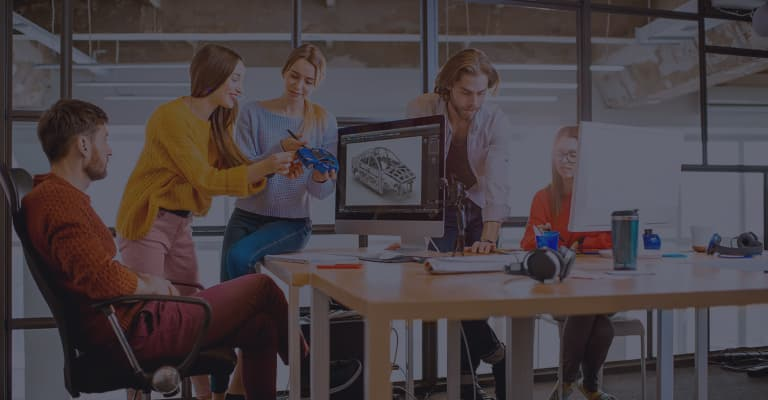
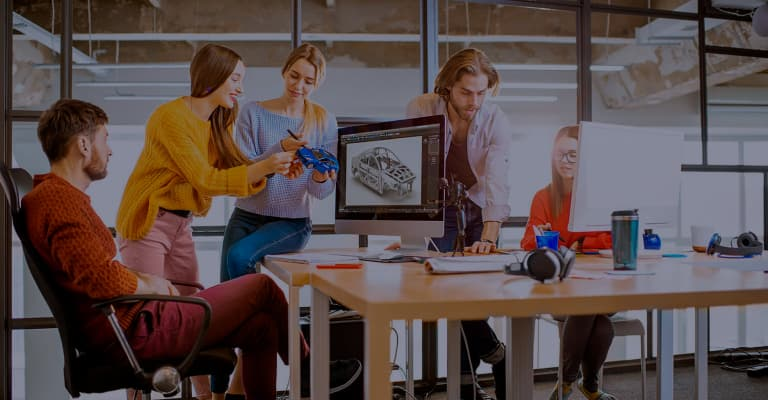
виправив картинки в хедері для РС

diff --git a/css/main.min.css b/css/main.min.css
@@ -1,2 +1,2 @@
-:root{--primary-text-color: #757575;--title-text-color: #212121;--accent-color: #2196f3;--primary-white-color: #ffffff;--button-color: #188ce8;--button-color-portfolio: #f5f4fa;--border-cards: #eeeeee;--border-cards-clients: #afb1b8;--timing-function: cubic-bezier(0.4, 0, 0.2, 1)}.form-checkbox-input{margin-right:7px;position:absolute;width:1px;height:1px;overflow:hidden;clip:rect(0 0 0 0)}body{font-family:'roboto', sans-serif;color:var(--primary-text-color);background-color:var(--primary-white-color);letter-spacing:0.03em;position:relative}h1,h2,h3,h4,h5,h6,p{margin-top:0;margin-bottom:0}ul{padding-left:0}img{display:block;max-width:100%;height:auto}.list{margin-top:0;margin-bottom:0;list-style:none}.link{text-decoration:none}.section{padding-top:94px;padding-bottom:94px}.section_mob{padding-top:60px;padding-bottom:60px}.container{width:100%;padding-left:15px;padding-right:15px;outline:1px solid red}@media screen and (min-width: 480px){.container{width:480px;margin:0 auto}}@media screen and (min-width: 768px){.container{width:768px}}@media screen and (min-width: 1200px){.container{width:1200px}}.logo{margin-left:0;display:inline-block;color:#000000;font-family:'Raleway', sans-serif;font-weight:bold;font-size:24px;line-height:1.17;text-decoration:none}.header__logo{margin-top:16px;margin-bottom:16px}.footer__logo{margin-top:0;margin-bottom:20px}.logo__span{color:var(--accent-color)}.logo__span_white{color:var(--primary-white-color)}@media screen and (max-width: 767px){.mobile-menu{z-index:9;position:fixed;top:0;left:0;width:100vw;height:100vh;overflow:auto;background-color:var(--primary-white-color);opacity:0;visibility:hidden;pointer-events:none}.mobile-menu__item{margin-left:28px}.mobile-menu__item:not(:last-child){display:block;margin-bottom:32px}.mobile-menu__item:last-child{margin-bottom:302px}.mobile-menu__link{font-weight:500;font-size:40px;line-height:1.18;text-align:center;letter-spacing:0.02em;color:var(--title-text-color)}.mobile-menu.is-open{visibility:visible;pointer-events:auto}.mobile-social-list{display:inline-flex;margin-left:28px}.mobile-social-list__link{font-weight:500;font-size:18px;line-height:1.22;letter-spacing:0.02em;color:var(--accent-color)}.mobile-social-list__item:not(:last-child){padding-right:10px;margin-right:10px;border-right:1px solid rgba(33,33,33,0.2)}.mobile-menu__link.current{color:var(--accent-color)}.mobile-contacts{margin-left:28px}.mobile-contacts__cont{display:inline-block;font-weight:500;font-size:24px;line-height:1.17;letter-spacing:0.02em;color:var(--primary-text-color);margin-bottom:64px}.mobile-contacts__cont.mob{display:inline-block;font-weight:500;font-size:34px;line-height:1.18;letter-spacing:0.02em;color:var(--accent-color);margin-bottom:32px}}@media screen and (min-width: 768px){.mobile-menu{display:none}}.button{cursor:pointer;border-style:none}.section__title{margin-bottom:50px;color:var(--title-text-color);font-weight:bold;font-size:36px;line-height:1.17;text-align:center}.section__title_mob{font-weight:bold;font-size:28px;line-height:1.18;text-align:center;margin-bottom:30px}.contacts-head__cont{display:flex;align-items:center;color:var(--primary-text-color);font-weight:500;font-size:12px;line-height:1.16;letter-spacing:0.02em;text-decoration:none;transition:color 250ms var(--timing-function)}.contacts-head__cont:hover,.contacts-head__cont:focus{color:var(--accent-color)}.address{font-style:normal}.contacts-nav__cont{color:var(--primary-text-color);font-weight:500;font-size:14px;line-height:1.14;letter-spacing:0.02em;text-decoration:none;transition:color 250ms var(--timing-function)}.contacts-nav__cont:hover,.contacts-nav__cont:focus{color:var(--accent-color)}.team .social-list{display:flex;justify-content:space-around;padding:16px 122px 24px 122px}.team .social-list__link{display:flex;align-items:center;justify-content:center;width:44px;height:44px;border-radius:50%}.team .social-list__link{fill:var(--border-cards-clients);transition:background-color 250ms var(--timing-function)}.team .social-list__link:hover,.team .social-list__link:focus{background-color:var(--accent-color)}.team .social-list__link:hover .social-list__icon{transition:fill 250ms var(--timing-function)}.team .social-list__link:hover .social-list__icon,.team .social-list__link:focus .social-list__icon{fill:var(--primary-white-color)}.footer-list{display:flex}.footer-list__link{display:flex;align-items:center;justify-content:center;width:44px;height:44px;border-radius:50%;background-color:rgba(255,255,255,0.1);transition:background-color 250ms var(--timing-function)}.footer-list__link:hover,.footer-list__link:focus{background-color:var(--accent-color)}.footer-list__item:not(:first-child){margin-left:10px}.footer-list__icon{fill:var(--primary-white-color)}.team .description{padding-top:30px;background-color:var(--primary-white-color)}.projects__description{padding:20px 24px 20px 24px;border:1px solid var(--border-cards);border-top:0}.projects__description_big{padding:20px 24px 56px 24px}.modal-backdrop{position:fixed;top:0;left:0;width:100%;height:100%;background-color:rgba(0,0,0,0.2);z-index:100;opacity:1;transition:opacity 250ms var(--timing-function),visibility 250ms var(--timing-function)}.modal-backdrop.is-hidden{opacity:0;visibility:hidden;pointer-events:none}.modal-backdrop.is-hidden .modal{transform:translate(-50%, -50%) scale(0.7)}.modal{display:flex;position:absolute;top:50%;left:50%;width:450px;height:609px;background-color:var(--primary-white-color);border-radius:4px;box-shadow:0px 1px 3px rgba(0,0,0,0.12),0px 1px 1px rgba(0,0,0,0.14),0px 2px 1px rgba(0,0,0,0.2);transform:translate(-50%, -50%) scale(1);transition:transform 250ms var(--timing-function)}@media screen and (min-width: 1200px){.modal{width:528px;height:581px}}.modal-button{position:absolute;top:8px;right:8px;width:30px;height:30px;display:flex;align-items:center;justify-content:center;padding:0;border:1px solid rgba(0,0,0,0.1);background-color:var(--primary-white-color);border-radius:50%;transition:fill 250ms var(--timing-function)}.modal-button:hover,.modal-button:focus{fill:var(--accent-color)}.contact-form{width:370px;height:auto;margin:0 auto}.contact-form>.form-text:first-child{margin-top:40px;margin-bottom:12px;font-weight:bold;font-size:20px;line-height:1.15;text-align:center;color:var(--title-text-color)}.contact-form .label{display:block;margin-bottom:4px;font-size:12px;line-height:1.16;letter-spacing:0.01em;color:var(--primary-text-color)}@media screen and (min-width: 1200px){.contact-form{width:448px}}.contact-form-label{position:relative;display:block;margin-bottom:10px}.contact-form-input{outline:none;width:370px;height:40px;padding:0 0 0 40px;border:1px solid rgba(33,33,33,0.2);box-sizing:border-box;border-radius:4px;transition:border 250ms var(--timing-function)}.contact-form-input:hover,.contact-form-input:focus{border:1px solid var(--accent-color)}.contact-form-input::placeholder{color:rgba(0,0,0,0.2)}.contact-form-input:required:focus:not(:placeholder-shown):valid{border-color:#008000}.contact-form-input:focus:required:not(:placeholder-shown):invalid{border-color:#ff0000}@media screen and (min-width: 1200px){.contact-form{width:448px}.contact-form-input{width:448px;height:40px}}.contact-form-message{outline:none;width:100%;height:120px;padding:12px 16px;margin-bottom:20px;border:1px solid rgba(33,33,33,0.2);box-sizing:border-box;border-radius:4px;resize:none;transition:border 250ms var(--timing-function)}.contact-form-message:hover,.contact-form-message:focus{border:1px solid var(--accent-color)}.contact-form-message::placeholder{font-size:14px;line-height:1.14;letter-spacing:0.01em;color:rgba(117,117,117,0.5)}.form-checkbox{display:flex;justify-content:center;align-items:center}.checkbox-icon{position:relative;width:16px;height:15px;border:2px solid var(--title-text-color);border-radius:2px;margin-right:7px;transition:background-color 250ms var(--timing-function),border-color 250ms var(--timing-function)}.checkbox-icon-check{position:absolute;top:-2px;left:-2px}.form-checkbox-input:checked+.checkbox-icon{background-color:var(--accent-color);border-color:var(--accent-color)}.checkbox-label{font-size:12px;line-height:1.67;color:var(--primary-text-color)}.checkbox-link{outline:none;font-size:12px;line-height:1.67;text-decoration-line:underline;color:var(--accent-color)}.checkbox-link:focus{outline:1px solid var(--accent-color)}@media screen and (min-width: 1200px){.checkbox-label{font-size:14px;line-height:1.71}.checkbox-link{font-size:14px;line-height:1.71}}.contacts-form-btn{outline:none;position:absolute;left:125px;bottom:40px;display:flex;align-items:center;justify-content:center;padding:0;width:200px;height:50px;border-radius:4px;border:none;cursor:pointer;background-color:var(--accent-color);color:var(--primary-white-color);font-weight:bold;font-size:16px;line-height:1.87;letter-spacing:0.06em;transition:background-color 250ms var(--timing-function)}.contacts-form-btnn:hover,.contacts-form-btn:focus{background-color:var(--button-color)}@media screen and (min-width: 1200px){.contacts-form-btn{left:165px}}.form-icon{position:absolute;bottom:11px;left:12px;transition:fill 250ms var(--timing-function)}.contact-form-input:hover ~ .form-icon,.contact-form-input:focus ~ .form-icon{fill:var(--accent-color)}.header{border-bottom:1px solid var(--border-cards)}.header__mobile-menu-btn{background-color:transparent;border:none;padding:0}.header__mobile-menu-icon{width:40px;height:40px;fill:var(--title-text-color);transition:fill 250ms var(--timing-function)}.header__mobile-menu-icon:hover,.header__mobile-menu-icon:focus{fill:var(--button-color)}.header .container{display:flex;justify-content:space-between;align-items:center}.mobile-menu .container{display:flex;flex-direction:column;align-items:flex-start;position:relative;padding-top:48px;padding-bottom:48px}.mobile-menu__close-btn{position:absolute;top:10px;right:15px;background:transparent;border:none;padding:0;transition:fill 250ms var(--timing-function)}.mobile-menu__close-btn:hover,.mobile-menu__close-btn:focus{fill:var(--button-color)}.mobile-menu__close-icon{width:40px;height:40px}.site-nav.list,.contacts-head{display:none}@media screen and (min-width: 768px){.header__mobile-menu-btn{display:none}.site-nav.list,.contacts-head{display:block}.main-nav{display:flex;align-items:center}.header__logo{margin-top:26px;margin-bottom:26px}.site-nav{display:flex}.site-nav__item:first-child{margin-left:88px}.site-nav__item:not(:first-child){margin-left:50px}.site-nav__link{display:block;padding-top:32px;padding-bottom:32px;color:#212121;font-weight:500;font-size:14px;line-height:1.14;letter-spacing:0.02em;text-decoration:none;transition:color 250ms var(--timing-function)}.site-nav__link:hover,.site-nav__link:focus{color:var(--accent-color)}.site-nav__link.current{position:relative;color:var(--accent-color)}.site-nav__link.current::after{position:absolute;left:0;bottom:0;display:block;content:'';width:100%;height:4px;border-radius:2px;background-color:var(--accent-color)}.site-nav .header__logo{margin-top:24px;margin-bottom:25px}.site-nav.list{display:flex}.contacts-head{margin-left:84px}.contacts-head__cont{display:inline-flex}.contacts-head__icon{width:14px;height:10px;margin-right:8px;fill:currentColor}.contacts-head__icon_tel{width:10px;height:14px}}@media screen and (min-width: 1200px){.logo{font-size:26px;line-height:1.19}.site-nav__item:first-child{margin-left:93px}.contacts-head__icon{width:16px;height:12px;margin-right:10px;fill:currentColor}.contacts-head__icon_tel{width:10px;height:16px}.contacts-head__cont{font-size:14px;line-height:1.14}.contacts-head__item:not(:first-child){margin-left:30px}.contacts-head{display:flex;justify-content:center;margin-left:auto}}.hero.section{padding-top:118px;padding-bottom:118px}.hero{text-align:center;max-width:1600px;height:400px;margin-left:auto;margin-right:auto;background-color:#c4c4c4;background:no-repeat;background-position:center;background-size:cover;background-image:linear-gradient(to right, rgba(47,48,58,0.4), rgba(47,48,58,0.4)),url(../../images/mobile/hero/header_img.jpg)}.hero__text{margin-bottom:30px;font-weight:900;font-size:26px;line-height:1.62;color:var(--primary-white-color);text-align:center;letter-spacing:0.06em;text-transform:uppercase}.hero__button{color:var(--primary-white-color);background-color:var(--accent-color);font-family:inherit;font-weight:bold;font-size:16px;line-height:1.87;letter-spacing:0.06em;padding:10px 32px;border-radius:4px;transition:background-color 250ms var(--timing-function)}.hero__button:hover,.hero__button:focus{background-color:var(--button-color)}@media (min-device-pixel-ratio: 2) and (max-width: 767px), (min-resolution: 192dpi) and (max-width: 767px), (min-resolution: 2dppx) and (max-width: 767px){.hero{background-image:linear-gradient(to right, rgba(47,48,58,0.4), rgba(47,48,58,0.4)),url(../../images/mobile/hero/header_img@2x.jpg)}}@media screen and (min-width: 768px){.hero{background-image:linear-gradient(to right, rgba(47,48,58,0.4), rgba(47,48,58,0.4)),url(../../images/tablet/hero/Header_img.jpg)}}@media (min-device-pixel-ratio: 2) and (min-width: 768px), (min-resolution: 192dpi) and (min-width: 768px), (min-resolution: 2dppx) and (min-width: 768px){.hero{background-image:linear-gradient(to right, rgba(47,48,58,0.4), rgba(47,48,58,0.4)),url(../../images/tablet/hero/Header_img@2x.jpg)}}@media screen and (min-width: 1200px){.hero{background-image:linear-gradient(to right, rgba(47,48,58,0.4), rgba(47,48,58,0.4)),url(../../images/pc/hero/Header_img.jpg)}}@media (min-device-pixel-ratio: 2) and (min-width: 1200px), (min-resolution: 192dpi) and (min-width: 1200px), (min-resolution: 2dppx) and (min-width: 1200px){.hero{background-image:linear-gradient(to right, rgba(47,48,58,0.4), rgba(47,48,58,0.4)),url(../../images/pc/hero/Header_img@2x.jpg)}}@media screen and (min-width: 1200px){.hero.section{padding-top:200px;padding-bottom:200px}.hero{height:600px}.hero__text{font-size:44px;line-height:1.36}}.advantages__text{margin-bottom:30px;font-size:14px;line-height:1.71;letter-spacing:0.03em;color:var(--primary-text-color)}.advantages__thumb{display:flex;align-items:center;justify-content:center;width:100%;height:120px;background-color:var(--button-color-portfolio);margin-bottom:30px}.advantages__title{margin-bottom:10px;font-weight:bold;font-size:14px;line-height:1.14;text-align:center;letter-spacing:0.03em;text-transform:uppercase;color:var(--title-text-color)}@media screen and (min-width: 768px){.advantages{display:flex;flex-wrap:wrap}.advantages__item{width:354px}.advantages__thumb{display:flex;width:354px;height:120px;background-color:var(--button-color-portfolio);margin-bottom:30px}.advantages__title{text-align:left}.advantages__item:nth-child(2n+1){margin-right:30px}}@media screen and (min-width: 1200px){.advantages__thumb{width:270px}.advantages__item:not(:last-child){margin-right:30px}.advantages__item{width:270px}}@media screen and (max-width: 1199px){.our-works{display:none}}.our-works{padding-top:0}.works{display:flex}.works__item{position:relative}.works__title{font-weight:bold;font-size:14px;line-height:1.14;text-align:center;text-transform:uppercase;color:var(--primary-white-color)}.works__backdrop{position:absolute;bottom:0;left:0;display:flex;align-items:center;justify-content:center;background-color:rgba(47,48,58,0.8);width:100%;height:70px}.works__item:not(:first-child){margin-left:30px}.team{background-color:var(--button-color-portfolio)}.team__description{padding-top:30px;background-color:var(--primary-white-color)}.team__title,.team__text{color:var(--title-text-color);font-weight:500;font-size:16px;line-height:1.19;text-align:center}.team__text{color:var(--primary-text-color);font-weight:normal}.team__title{margin-bottom:10px}.team__item{margin-bottom:30px;box-shadow:0px 1px 3px rgba(0,0,0,0.12),0px 1px 1px rgba(0,0,0,0.14),0px 2px 1px rgba(0,0,0,0.2);border-radius:0px 0px 4px 4px}@media screen and (min-width: 768px){.team{display:flex;flex-wrap:wrap}.team__item{width:354px}.team__item:nth-child(2n+1){margin-right:30px}.team .social-list{display:flex;justify-content:space-around;padding:16px 74px 24px 74px}}@media screen and (min-width: 1200px){.section{padding-top:94px}.team__item{width:270px}.team__item:not(:last-child){margin-right:30px}.team .section__title{font-size:36px;line-height:1.17}.team .social-list{padding:16px 32px 30px 32px}}.section.clients{padding-top:71px;padding-bottom:49px}.company{display:flex;flex-wrap:wrap}.company__link{display:flex;align-items:center;justify-content:center;width:210px;height:92px;border:1px solid var(--border-cards-clients);border-radius:4px;transition:border 250ms var(--timing-function)}.company__link:hover,.company__link:focus{border:1px solid var(--accent-color)}.company__link:hover .company__icon,.company__link:focus .company__icon{fill:var(--accent-color)}.company__icon{margin:16px 52px;fill:var(--border-cards-clients);transition:fill 250ms var(--timing-function)}.company__item{margin-bottom:30px}.company__item:nth-child(2n+1){margin-right:30px}@media screen and (min-width: 768px){.section{padding-top:60px;padding-bottom:60px}.company__link{width:226px}.company__icon{margin:16px 60px}.company__item:nth-child(2){margin-right:30px}.company__item{margin-right:30px}.company__item:nth-child(3),.company__item:nth-child(6){margin-right:0}}@media screen and (min-width: 1200px){.section{padding-top:94px;padding-bottom:94px}.section__title_mob{font-size:36px;line-height:1.17;margin-bottom:50px}.company__link{width:170px}.company__icon{margin:16px 32px}.company__item:not(:last-child){margin-right:30px}}.footer{padding-bottom:60px;padding-top:60px;background:#2f303a}.footer .container{display:flex;align-items:baseline;justify-content:space-around}.contacts-nav__cont{color:rgba(255,255,255,0.6);font-weight:normal;line-height:1.71;letter-spacing:0.03em}.thumb{margin-left:70px}.footer-title{margin-bottom:35px;font-weight:bold;font-size:14px;line-height:1.14;text-transform:uppercase;color:#ffffff}.contacts-nav__map{margin-bottom:9px}.contacts-nav__map-google{color:var(--primary-white-color);text-decoration:none;font-style:normal;font-size:14px;line-height:1.71}.contacts-nav__cont.mail{display:inline-block;margin-bottom:9px}.subscription{margin-left:93px}.subscription__thumb{display:flex}.subscription__title{margin-bottom:35px}.subscription__input{width:358px;height:50px;background-color:transparent;border:1px solid rgba(255,255,255,0.3);drop-shadow:0px 4px 4px rgba(0,0,0,0.15);border-radius:4px;padding-left:16px;color:var(--primary-white-color)}.subscription__input::placeholder{color:rgba(255,255,255,0.6)}.subscription__button{position:relative;width:200px;height:50px;border-radius:4px;font-family:inherit;font-weight:bold;font-size:16px;line-height:1.87;letter-spacing:0.06em;padding:10px 62px 10px 29px;margin-left:12px;color:var(--primary-white-color);background-color:var(--accent-color);border:none;box-shadow:0px 4px 4px rgba(0,0,0,0.15);transition:background-color 250ms var(--timing-function)}.subscription__button:hover,.subscription__button:focus{background-color:var(--button-color)}.subscription__icon{position:absolute;top:13px;right:28px}.filter{padding-top:60px}.filter-nav{display:flex;flex-wrap:wrap;justify-content:flex-start}.filter-nav__button{padding:6px 22px;border-radius:4px;font-family:inherit;color:var(--title-text-color);background-color:var(--button-color-portfolio);font-weight:500;font-size:16px;line-height:1.6;letter-spacing:inherit;transition:color 250ms var(--timing-function),background-color 250ms var(--timing-function),box-shadow 250ms var(--timing-function)}.filter-nav__button:hover,.filter-nav__button:focus{color:var(--primary-white-color);background-color:var(--accent-color);box-shadow:0px 4px 4px rgba(0,0,0,0.25)}.filter-nav__item:not(:first-child){margin-left:8px;margin-bottom:15px}.filter-nav__item:nth-child(4){margin-left:0;margin-bottom:40px}.filter-nav__item:nth-child(5){margin-bottom:40px}.projects__item{width:450px;transition:box-shadow 250ms var(--timing-function)}.projects__item:hover,.projects__item:focus{box-shadow:0px 4px 4px rgba(0,0,0,0.25)}.projects__item:not(:last-child){margin-bottom:30px}.projects__link{text-decoration:none}.projects__title{color:var(--title-text-color);font-weight:bold;font-size:18px;line-height:2;letter-spacing:0.06em;margin-bottom:4px}.projects__text{color:var(--primary-text-color);font-size:16px;line-height:1.9}.projects__thumb{position:relative;overflow:hidden}.backdrop{position:absolute;top:0;left:0;overflow:auto;width:100%;height:101%;opacity:1;background-color:rgba(33,150,243,0.9);transition:transform 250ms var(--timing-function);transform:translateY(100%)}.projects__link:hover .backdrop,.projects__link:focus .backdrop{transform:translateY(0)}.backdrop__text{padding:63px 24px;font-size:18px;line-height:1.55;color:var(--primary-white-color)}@media screen and (min-width: 768px){.filter-nav{padding-left:0;display:flex;justify-content:center;margin-bottom:30px}.projects{display:flex;flex-wrap:wrap}.projects__item{width:354px}.projects__item:nth-child(2n+1){margin-right:30px}}@media screen and (min-width: 1200px){.projects__description_big{padding:20px 24px 20px 24px}.filter{padding-top:94px}.filter-nav{margin-bottom:50px}.projects{display:flex;flex-wrap:wrap}.projects__item{margin-right:30px;width:370px}.projects__item:nth-child(3n){margin-right:0}.projects__item:nth-last-child(-n+3){margin-bottom:0}}
+:root{--primary-text-color: #757575;--title-text-color: #212121;--accent-color: #2196f3;--primary-white-color: #ffffff;--button-color: #188ce8;--button-color-portfolio: #f5f4fa;--border-cards: #eeeeee;--border-cards-clients: #afb1b8;--timing-function: cubic-bezier(0.4, 0, 0.2, 1)}.form-checkbox-input{margin-right:7px;position:absolute;width:1px;height:1px;overflow:hidden;clip:rect(0 0 0 0)}body{font-family:'roboto', sans-serif;color:var(--primary-text-color);background-color:var(--primary-white-color);letter-spacing:0.03em;position:relative}h1,h2,h3,h4,h5,h6,p{margin-top:0;margin-bottom:0}ul{padding-left:0}img{display:block;max-width:100%;height:auto}.list{margin-top:0;margin-bottom:0;list-style:none}.link{text-decoration:none}.section{padding-top:94px;padding-bottom:94px}.section_mob{padding-top:60px;padding-bottom:60px}.container{width:100%;padding-left:15px;padding-right:15px;outline:1px solid red}@media screen and (min-width: 480px){.container{width:480px;margin:0 auto}}@media screen and (min-width: 768px){.container{width:768px}}@media screen and (min-width: 1200px){.container{width:1200px}}.logo{margin-left:0;display:inline-block;color:#000000;font-family:'Raleway', sans-serif;font-weight:bold;font-size:24px;line-height:1.17;text-decoration:none}.header__logo{margin-top:16px;margin-bottom:16px}.footer__logo{margin-top:0;margin-bottom:20px}.logo__span{color:var(--accent-color)}.logo__span_white{color:var(--primary-white-color)}@media screen and (max-width: 767px){.mobile-menu{z-index:9;position:fixed;top:0;left:0;width:100vw;height:100vh;overflow:auto;background-color:var(--primary-white-color);opacity:0;visibility:hidden;pointer-events:none}.mobile-menu__item{margin-left:28px}.mobile-menu__item:not(:last-child){display:block;margin-bottom:32px}.mobile-menu__item:last-child{margin-bottom:302px}.mobile-menu__link{font-weight:500;font-size:40px;line-height:1.18;text-align:center;letter-spacing:0.02em;color:var(--title-text-color)}.mobile-menu.is-open{visibility:visible;pointer-events:auto}.mobile-social-list{display:inline-flex;margin-left:28px}.mobile-social-list__link{font-weight:500;font-size:18px;line-height:1.22;letter-spacing:0.02em;color:var(--accent-color)}.mobile-social-list__item:not(:last-child){padding-right:10px;margin-right:10px;border-right:1px solid rgba(33,33,33,0.2)}.mobile-menu__link.current{color:var(--accent-color)}.mobile-contacts{margin-left:28px}.mobile-contacts__cont{display:inline-block;font-weight:500;font-size:24px;line-height:1.17;letter-spacing:0.02em;color:var(--primary-text-color);margin-bottom:64px}.mobile-contacts__cont.mob{display:inline-block;font-weight:500;font-size:34px;line-height:1.18;letter-spacing:0.02em;color:var(--accent-color);margin-bottom:32px}}@media screen and (min-width: 768px){.mobile-menu{display:none}}.button{cursor:pointer;border-style:none}.section__title{margin-bottom:50px;color:var(--title-text-color);font-weight:bold;font-size:36px;line-height:1.17;text-align:center}.section__title_mob{font-weight:bold;font-size:28px;line-height:1.18;text-align:center;margin-bottom:30px}.contacts-head__cont{display:flex;align-items:center;color:var(--primary-text-color);font-weight:500;font-size:12px;line-height:1.16;letter-spacing:0.02em;text-decoration:none;transition:color 250ms var(--timing-function)}.contacts-head__cont:hover,.contacts-head__cont:focus{color:var(--accent-color)}.address{font-style:normal}.contacts-nav__cont{color:var(--primary-text-color);font-weight:500;font-size:14px;line-height:1.14;letter-spacing:0.02em;text-decoration:none;transition:color 250ms var(--timing-function)}.contacts-nav__cont:hover,.contacts-nav__cont:focus{color:var(--accent-color)}.team .social-list{display:flex;justify-content:space-around;padding:16px 122px 24px 122px}.team .social-list__link{display:flex;align-items:center;justify-content:center;width:44px;height:44px;border-radius:50%}.team .social-list__link{fill:var(--border-cards-clients);transition:background-color 250ms var(--timing-function)}.team .social-list__link:hover,.team .social-list__link:focus{background-color:var(--accent-color)}.team .social-list__link:hover .social-list__icon{transition:fill 250ms var(--timing-function)}.team .social-list__link:hover .social-list__icon,.team .social-list__link:focus .social-list__icon{fill:var(--primary-white-color)}.footer-list{display:flex}.footer-list__link{display:flex;align-items:center;justify-content:center;width:44px;height:44px;border-radius:50%;background-color:rgba(255,255,255,0.1);transition:background-color 250ms var(--timing-function)}.footer-list__link:hover,.footer-list__link:focus{background-color:var(--accent-color)}.footer-list__item:not(:first-child){margin-left:10px}.footer-list__icon{fill:var(--primary-white-color)}.team .description{padding-top:30px;background-color:var(--primary-white-color)}.projects__description{padding:20px 24px 20px 24px;border:1px solid var(--border-cards);border-top:0}.projects__description_big{padding:20px 24px 56px 24px}.modal-backdrop{position:fixed;top:0;left:0;width:100%;height:100%;background-color:rgba(0,0,0,0.2);z-index:100;opacity:1;transition:opacity 250ms var(--timing-function),visibility 250ms var(--timing-function)}.modal-backdrop.is-hidden{opacity:0;visibility:hidden;pointer-events:none}.modal-backdrop.is-hidden .modal{transform:translate(-50%, -50%) scale(0.7)}.modal{display:flex;position:absolute;top:50%;left:50%;width:450px;height:609px;background-color:var(--primary-white-color);border-radius:4px;box-shadow:0px 1px 3px rgba(0,0,0,0.12),0px 1px 1px rgba(0,0,0,0.14),0px 2px 1px rgba(0,0,0,0.2);transform:translate(-50%, -50%) scale(1);transition:transform 250ms var(--timing-function)}@media screen and (min-width: 1200px){.modal{width:528px;height:581px}}.modal-button{position:absolute;top:8px;right:8px;width:30px;height:30px;display:flex;align-items:center;justify-content:center;padding:0;border:1px solid rgba(0,0,0,0.1);background-color:var(--primary-white-color);border-radius:50%;transition:fill 250ms var(--timing-function)}.modal-button:hover,.modal-button:focus{fill:var(--accent-color)}.contact-form{width:370px;height:auto;margin:0 auto}.contact-form>.form-text:first-child{margin-top:40px;margin-bottom:12px;font-weight:bold;font-size:20px;line-height:1.15;text-align:center;color:var(--title-text-color)}.contact-form .label{display:block;margin-bottom:4px;font-size:12px;line-height:1.16;letter-spacing:0.01em;color:var(--primary-text-color)}@media screen and (min-width: 1200px){.contact-form{width:448px}}.contact-form-label{position:relative;display:block;margin-bottom:10px}.contact-form-input{outline:none;width:370px;height:40px;padding:0 0 0 40px;border:1px solid rgba(33,33,33,0.2);box-sizing:border-box;border-radius:4px;transition:border 250ms var(--timing-function)}.contact-form-input:hover,.contact-form-input:focus{border:1px solid var(--accent-color)}.contact-form-input::placeholder{color:rgba(0,0,0,0.2)}.contact-form-input:required:focus:not(:placeholder-shown):valid{border-color:#008000}.contact-form-input:focus:required:not(:placeholder-shown):invalid{border-color:#ff0000}@media screen and (min-width: 1200px){.contact-form{width:448px}.contact-form-input{width:448px;height:40px}}.contact-form-message{outline:none;width:100%;height:120px;padding:12px 16px;margin-bottom:20px;border:1px solid rgba(33,33,33,0.2);box-sizing:border-box;border-radius:4px;resize:none;transition:border 250ms var(--timing-function)}.contact-form-message:hover,.contact-form-message:focus{border:1px solid var(--accent-color)}.contact-form-message::placeholder{font-size:14px;line-height:1.14;letter-spacing:0.01em;color:rgba(117,117,117,0.5)}.form-checkbox{display:flex;justify-content:center;align-items:center}.checkbox-icon{position:relative;width:16px;height:15px;border:2px solid var(--title-text-color);border-radius:2px;margin-right:7px;transition:background-color 250ms var(--timing-function),border-color 250ms var(--timing-function)}.checkbox-icon-check{position:absolute;top:-2px;left:-2px}.form-checkbox-input:checked+.checkbox-icon{background-color:var(--accent-color);border-color:var(--accent-color)}.checkbox-label{font-size:12px;line-height:1.67;color:var(--primary-text-color)}.checkbox-link{outline:none;font-size:12px;line-height:1.67;text-decoration-line:underline;color:var(--accent-color)}.checkbox-link:focus{outline:1px solid var(--accent-color)}@media screen and (min-width: 1200px){.checkbox-label{font-size:14px;line-height:1.71}.checkbox-link{font-size:14px;line-height:1.71}}.contacts-form-btn{outline:none;position:absolute;left:125px;bottom:40px;display:flex;align-items:center;justify-content:center;padding:0;width:200px;height:50px;border-radius:4px;border:none;cursor:pointer;background-color:var(--accent-color);color:var(--primary-white-color);font-weight:bold;font-size:16px;line-height:1.87;letter-spacing:0.06em;transition:background-color 250ms var(--timing-function)}.contacts-form-btnn:hover,.contacts-form-btn:focus{background-color:var(--button-color)}@media screen and (min-width: 1200px){.contacts-form-btn{left:165px}}.form-icon{position:absolute;bottom:11px;left:12px;transition:fill 250ms var(--timing-function)}.contact-form-input:hover ~ .form-icon,.contact-form-input:focus ~ .form-icon{fill:var(--accent-color)}.header{border-bottom:1px solid var(--border-cards)}.header__mobile-menu-btn{background-color:transparent;border:none;padding:0}.header__mobile-menu-icon{width:40px;height:40px;fill:var(--title-text-color);transition:fill 250ms var(--timing-function)}.header__mobile-menu-icon:hover,.header__mobile-menu-icon:focus{fill:var(--button-color)}.header .container{display:flex;justify-content:space-between;align-items:center}.mobile-menu .container{display:flex;flex-direction:column;align-items:flex-start;position:relative;padding-top:48px;padding-bottom:48px}.mobile-menu__close-btn{position:absolute;top:10px;right:15px;background:transparent;border:none;padding:0;transition:fill 250ms var(--timing-function)}.mobile-menu__close-btn:hover,.mobile-menu__close-btn:focus{fill:var(--button-color)}.mobile-menu__close-icon{width:40px;height:40px}.site-nav.list,.contacts-head{display:none}@media screen and (min-width: 768px){.header__mobile-menu-btn{display:none}.site-nav.list,.contacts-head{display:block}.main-nav{display:flex;align-items:center}.header__logo{margin-top:26px;margin-bottom:26px}.site-nav{display:flex}.site-nav__item:first-child{margin-left:88px}.site-nav__item:not(:first-child){margin-left:50px}.site-nav__link{display:block;padding-top:32px;padding-bottom:32px;color:#212121;font-weight:500;font-size:14px;line-height:1.14;letter-spacing:0.02em;text-decoration:none;transition:color 250ms var(--timing-function)}.site-nav__link:hover,.site-nav__link:focus{color:var(--accent-color)}.site-nav__link.current{position:relative;color:var(--accent-color)}.site-nav__link.current::after{position:absolute;left:0;bottom:0;display:block;content:'';width:100%;height:4px;border-radius:2px;background-color:var(--accent-color)}.site-nav .header__logo{margin-top:24px;margin-bottom:25px}.site-nav.list{display:flex}.contacts-head{margin-left:84px}.contacts-head__cont{display:inline-flex}.contacts-head__icon{width:14px;height:10px;margin-right:8px;fill:currentColor}.contacts-head__icon_tel{width:10px;height:14px}}@media screen and (min-width: 1200px){.logo{font-size:26px;line-height:1.19}.site-nav__item:first-child{margin-left:93px}.contacts-head__icon{width:16px;height:12px;margin-right:10px;fill:currentColor}.contacts-head__icon_tel{width:10px;height:16px}.contacts-head__cont{font-size:14px;line-height:1.14}.contacts-head__item:not(:first-child){margin-left:30px}.contacts-head{display:flex;justify-content:center;margin-left:auto}}.hero.section{padding-top:118px;padding-bottom:118px}.hero{text-align:center;max-width:1600px;min-height:400px;margin-left:auto;margin-right:auto;background-color:#c4c4c4;background:no-repeat;background-position:center;background-size:cover;background-image:linear-gradient(to right, rgba(47,48,58,0.4), rgba(47,48,58,0.4)),url(../../images/mobile/hero/header_img.jpg)}.hero__text{margin-bottom:30px;font-weight:900;font-size:26px;line-height:1.62;color:var(--primary-white-color);text-align:center;letter-spacing:0.06em;text-transform:uppercase}.hero__button{color:var(--primary-white-color);background-color:var(--accent-color);font-family:inherit;font-weight:bold;font-size:16px;line-height:1.87;letter-spacing:0.06em;padding:10px 32px;border-radius:4px;transition:background-color 250ms var(--timing-function)}.hero__button:hover,.hero__button:focus{background-color:var(--button-color)}@media (min-device-pixel-ratio: 2) and (max-width: 767px), (min-resolution: 192dpi) and (max-width: 767px), (min-resolution: 2dppx) and (max-width: 767px){.hero{background-image:linear-gradient(to right, rgba(47,48,58,0.4), rgba(47,48,58,0.4)),url(../../images/mobile/hero/header_img@2x.jpg)}}@media screen and (min-width: 768px){.hero{background-image:linear-gradient(to right, rgba(47,48,58,0.4), rgba(47,48,58,0.4)),url(../../images/tablet/hero/header_img.jpg)}}@media (min-device-pixel-ratio: 2) and (min-width: 768px), (min-resolution: 192dpi) and (min-width: 768px), (min-resolution: 2dppx) and (min-width: 768px){.hero{background-image:linear-gradient(to right, rgba(47,48,58,0.4), rgba(47,48,58,0.4)),url(../../images/tablet/hero/header_img@2x.jpg)}}@media screen and (min-width: 1200px){.hero{background-image:linear-gradient(to right, rgba(47,48,58,0.4), rgba(47,48,58,0.4)),url(../../images/pc/hero/header_img.jpg)}}@media (min-device-pixel-ratio: 2) and (min-width: 1200px), (min-resolution: 192dpi) and (min-width: 1200px), (min-resolution: 2dppx) and (min-width: 1200px){.hero{background-image:linear-gradient(to right, rgba(47,48,58,0.4), rgba(47,48,58,0.4)),url(../../images/pc/hero/header_img@2x.jpg)}}@media screen and (min-width: 1200px){.hero.section{padding-top:200px;padding-bottom:200px}.hero{height:600px}.hero__text{font-size:44px;line-height:1.36}}.advantages__text{margin-bottom:30px;font-size:14px;line-height:1.71;letter-spacing:0.03em;color:var(--primary-text-color)}.advantages__thumb{display:flex;align-items:center;justify-content:center;width:100%;height:120px;background-color:var(--button-color-portfolio);margin-bottom:30px}.advantages__title{margin-bottom:10px;font-weight:bold;font-size:14px;line-height:1.14;text-align:center;letter-spacing:0.03em;text-transform:uppercase;color:var(--title-text-color)}@media screen and (min-width: 768px){.advantages{display:flex;flex-wrap:wrap}.advantages__item{width:354px}.advantages__thumb{display:flex;width:354px;height:120px;background-color:var(--button-color-portfolio);margin-bottom:30px}.advantages__title{text-align:left}.advantages__item:nth-child(2n+1){margin-right:30px}}@media screen and (min-width: 1200px){.advantages__thumb{width:270px}.advantages__item:not(:last-child){margin-right:30px}.advantages__item{width:270px}}@media screen and (max-width: 1199px){.our-works{display:none}}.our-works{padding-top:0}.works{display:flex}.works__item{position:relative}.works__title{font-weight:bold;font-size:14px;line-height:1.14;text-align:center;text-transform:uppercase;color:var(--primary-white-color)}.works__backdrop{position:absolute;bottom:0;left:0;display:flex;align-items:center;justify-content:center;background-color:rgba(47,48,58,0.8);width:100%;height:70px}.works__item:not(:first-child){margin-left:30px}.team{background-color:var(--button-color-portfolio)}.team__description{padding-top:30px;background-color:var(--primary-white-color)}.team__title,.team__text{color:var(--title-text-color);font-weight:500;font-size:16px;line-height:1.19;text-align:center}.team__text{color:var(--primary-text-color);font-weight:normal}.team__title{margin-bottom:10px}.team__item{margin-bottom:30px;box-shadow:0px 1px 3px rgba(0,0,0,0.12),0px 1px 1px rgba(0,0,0,0.14),0px 2px 1px rgba(0,0,0,0.2);border-radius:0px 0px 4px 4px}@media screen and (min-width: 768px){.team{display:flex;flex-wrap:wrap}.team__item{width:354px}.team__item:nth-child(2n+1){margin-right:30px}.team .social-list{display:flex;justify-content:space-around;padding:16px 74px 24px 74px}}@media screen and (min-width: 1200px){.section{padding-top:94px}.team__item{width:270px}.team__item:not(:last-child){margin-right:30px}.team .section__title{font-size:36px;line-height:1.17}.team .social-list{padding:16px 32px 30px 32px}}.section.clients{padding-top:71px;padding-bottom:49px}.company{display:flex;flex-wrap:wrap}.company__link{display:flex;align-items:center;justify-content:center;width:210px;height:92px;border:1px solid var(--border-cards-clients);border-radius:4px;transition:border 250ms var(--timing-function)}.company__link:hover,.company__link:focus{border:1px solid var(--accent-color)}.company__link:hover .company__icon,.company__link:focus .company__icon{fill:var(--accent-color)}.company__icon{margin:16px 52px;fill:var(--border-cards-clients);transition:fill 250ms var(--timing-function)}.company__item{margin-bottom:30px}.company__item:nth-child(2n+1){margin-right:30px}@media screen and (min-width: 768px){.section{padding-top:60px;padding-bottom:60px}.company__link{width:226px}.company__icon{margin:16px 60px}.company__item:nth-child(2){margin-right:30px}.company__item{margin-right:30px}.company__item:nth-child(3),.company__item:nth-child(6){margin-right:0}}@media screen and (min-width: 1200px){.section{padding-top:94px;padding-bottom:94px}.section__title_mob{font-size:36px;line-height:1.17;margin-bottom:50px}.company__link{width:170px}.company__icon{margin:16px 32px}.company__item:not(:last-child){margin-right:30px}}.footer{padding-bottom:60px;padding-top:60px;background:#2f303a}.footer .container{display:flex;align-items:baseline;justify-content:space-around}.contacts-nav__cont{color:rgba(255,255,255,0.6);font-weight:normal;line-height:1.71;letter-spacing:0.03em}.thumb{margin-left:70px}.footer-title{margin-bottom:35px;font-weight:bold;font-size:14px;line-height:1.14;text-transform:uppercase;color:#ffffff}.contacts-nav__map{margin-bottom:9px}.contacts-nav__map-google{color:var(--primary-white-color);text-decoration:none;font-style:normal;font-size:14px;line-height:1.71}.contacts-nav__cont.mail{display:inline-block;margin-bottom:9px}.subscription{margin-left:93px}.subscription__thumb{display:flex}.subscription__title{margin-bottom:35px}.subscription__input{width:358px;height:50px;background-color:transparent;border:1px solid rgba(255,255,255,0.3);drop-shadow:0px 4px 4px rgba(0,0,0,0.15);border-radius:4px;padding-left:16px;color:var(--primary-white-color)}.subscription__input::placeholder{color:rgba(255,255,255,0.6)}.subscription__button{position:relative;width:200px;height:50px;border-radius:4px;font-family:inherit;font-weight:bold;font-size:16px;line-height:1.87;letter-spacing:0.06em;padding:10px 62px 10px 29px;margin-left:12px;color:var(--primary-white-color);background-color:var(--accent-color);border:none;box-shadow:0px 4px 4px rgba(0,0,0,0.15);transition:background-color 250ms var(--timing-function)}.subscription__button:hover,.subscription__button:focus{background-color:var(--button-color)}.subscription__icon{position:absolute;top:13px;right:28px}.filter{padding-top:60px}.filter-nav{display:flex;flex-wrap:wrap;justify-content:flex-start}.filter-nav__button{padding:6px 22px;border-radius:4px;font-family:inherit;color:var(--title-text-color);background-color:var(--button-color-portfolio);font-weight:500;font-size:16px;line-height:1.6;letter-spacing:inherit;transition:color 250ms var(--timing-function),background-color 250ms var(--timing-function),box-shadow 250ms var(--timing-function)}.filter-nav__button:hover,.filter-nav__button:focus{color:var(--primary-white-color);background-color:var(--accent-color);box-shadow:0px 4px 4px rgba(0,0,0,0.25)}.filter-nav__item:not(:first-child){margin-left:8px;margin-bottom:15px}.filter-nav__item:nth-child(4){margin-left:0;margin-bottom:40px}.filter-nav__item:nth-child(5){margin-bottom:40px}.projects__item{width:450px;transition:box-shadow 250ms var(--timing-function)}.projects__item:hover,.projects__item:focus{box-shadow:0px 4px 4px rgba(0,0,0,0.25)}.projects__item:not(:last-child){margin-bottom:30px}.projects__link{text-decoration:none}.projects__title{color:var(--title-text-color);font-weight:bold;font-size:18px;line-height:2;letter-spacing:0.06em;margin-bottom:4px}.projects__text{color:var(--primary-text-color);font-size:16px;line-height:1.9}.projects__thumb{position:relative;overflow:hidden}.backdrop{position:absolute;top:0;left:0;overflow:auto;width:100%;height:101%;opacity:1;background-color:rgba(33,150,243,0.9);transition:transform 250ms var(--timing-function);transform:translateY(100%)}.projects__link:hover .backdrop,.projects__link:focus .backdrop{transform:translateY(0)}.backdrop__text{padding:63px 24px;font-size:18px;line-height:1.55;color:var(--primary-white-color)}@media screen and (min-width: 768px){.filter-nav{padding-left:0;display:flex;justify-content:center;margin-bottom:30px}.projects{display:flex;flex-wrap:wrap}.projects__item{width:354px}.projects__item:nth-child(2n+1){margin-right:30px}}@media screen and (min-width: 1200px){.projects__description_big{padding:20px 24px 20px 24px}.filter{padding-top:94px}.filter-nav{margin-bottom:50px}.projects{display:flex;flex-wrap:wrap}.projects__item{margin-right:30px;width:370px}.projects__item:nth-child(3n){margin-right:0}.projects__item:nth-last-child(-n+3){margin-bottom:0}}
 /*# sourceMappingURL=main.min.css.map */

diff --git a/css/main.css b/css/main.css
@@ -783,7 +783,7 @@ img {
 .hero {
   text-align: center;
   max-width: 1600px;
-  height: 400px;
+  min-height: 400px;
   margin-left: auto;
   margin-right: auto;
   background-color: #c4c4c4;
@@ -829,25 +829,25 @@ img {
 
 @media screen and (min-width: 768px) {
   .hero {
-    background-image: linear-gradient(to right, rgba(47, 48, 58, 0.4), rgba(47, 48, 58, 0.4)), url(../../images/tablet/hero/Header_img.jpg);
+    background-image: linear-gradient(to right, rgba(47, 48, 58, 0.4), rgba(47, 48, 58, 0.4)), url(../../images/tablet/hero/header_img.jpg);
   }
 }
 
 @media (min-device-pixel-ratio: 2) and (min-width: 768px), (min-resolution: 192dpi) and (min-width: 768px), (min-resolution: 2dppx) and (min-width: 768px) {
   .hero {
-    background-image: linear-gradient(to right, rgba(47, 48, 58, 0.4), rgba(47, 48, 58, 0.4)), url(../../images/tablet/hero/Header_img@2x.jpg);
+    background-image: linear-gradient(to right, rgba(47, 48, 58, 0.4), rgba(47, 48, 58, 0.4)), url(../../images/tablet/hero/header_img@2x.jpg);
   }
 }
 
 @media screen and (min-width: 1200px) {
   .hero {
-    background-image: linear-gradient(to right, rgba(47, 48, 58, 0.4), rgba(47, 48, 58, 0.4)), url(../../images/pc/hero/Header_img.jpg);
+    background-image: linear-gradient(to right, rgba(47, 48, 58, 0.4), rgba(47, 48, 58, 0.4)), url(../../images/pc/hero/header_img.jpg);
   }
 }
 
 @media (min-device-pixel-ratio: 2) and (min-width: 1200px), (min-resolution: 192dpi) and (min-width: 1200px), (min-resolution: 2dppx) and (min-width: 1200px) {
   .hero {
-    background-image: linear-gradient(to right, rgba(47, 48, 58, 0.4), rgba(47, 48, 58, 0.4)), url(../../images/pc/hero/Header_img@2x.jpg);
+    background-image: linear-gradient(to right, rgba(47, 48, 58, 0.4), rgba(47, 48, 58, 0.4)), url(../../images/pc/hero/header_img@2x.jpg);
   }
 }
 

diff --git a/sass/layout/_hero.scss b/sass/layout/_hero.scss
@@ -6,7 +6,7 @@
 .hero {
   text-align: center;
   max-width: 1600px;
-  height: 400px;
+  min-height: 400px;
   margin-left: auto;
   margin-right: auto;
   background-color: #c4c4c4;
@@ -74,7 +74,7 @@
         rgba(47, 48, 58, 0.4),
         rgba(47, 48, 58, 0.4)
       ),
-      url(../../images/tablet/hero/Header_img.jpg);
+      url(../../images/tablet/hero/header_img.jpg);
   }
 }
 
@@ -88,7 +88,7 @@
         rgba(47, 48, 58, 0.4),
         rgba(47, 48, 58, 0.4)
       ),
-      url(../../images/tablet/hero/Header_img@2x.jpg);
+      url(../../images/tablet/hero/header_img@2x.jpg);
   }
 }
 
@@ -99,7 +99,7 @@
         rgba(47, 48, 58, 0.4),
         rgba(47, 48, 58, 0.4)
       ),
-      url(../../images/pc/hero/Header_img.jpg);
+      url(../../images/pc/hero/header_img.jpg);
   }
 }
 
@@ -113,7 +113,7 @@
         rgba(47, 48, 58, 0.4),
         rgba(47, 48, 58, 0.4)
       ),
-      url(../../images/pc/hero/Header_img@2x.jpg);
+      url(../../images/pc/hero/header_img@2x.jpg);
   }
 }
 
